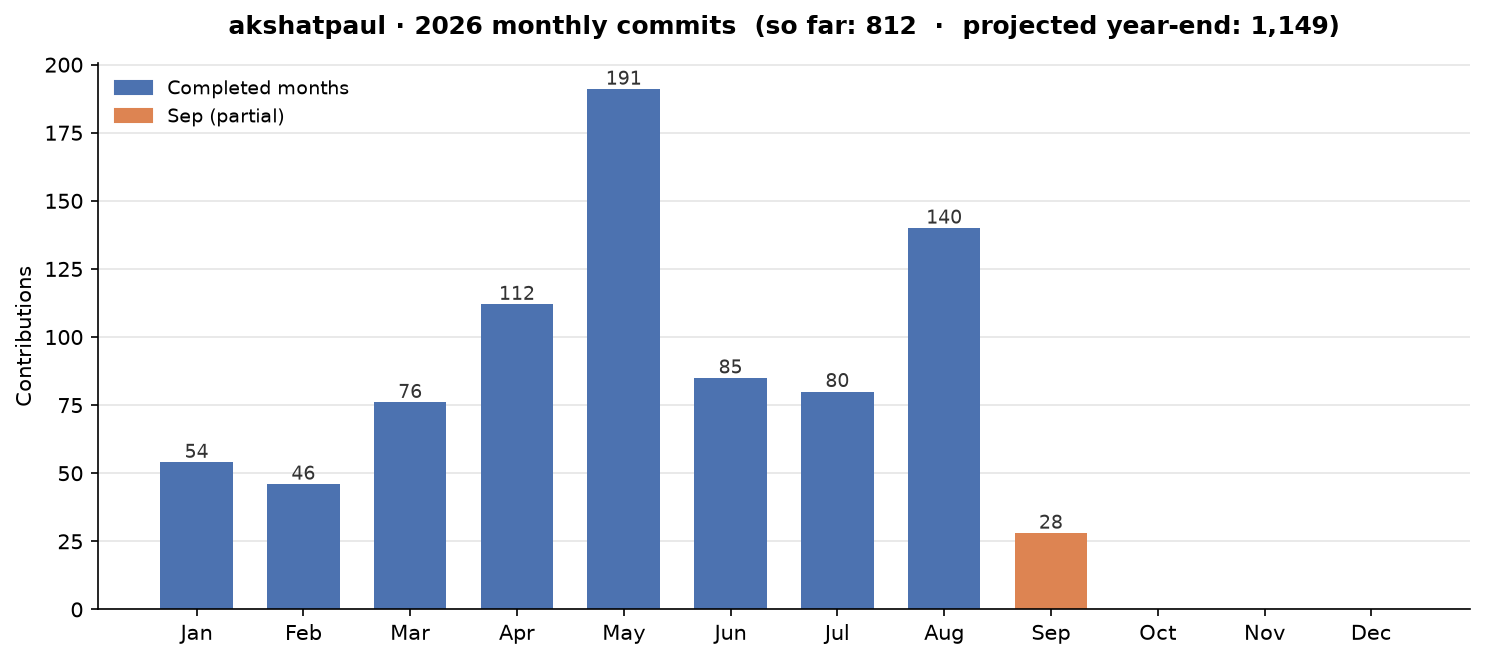
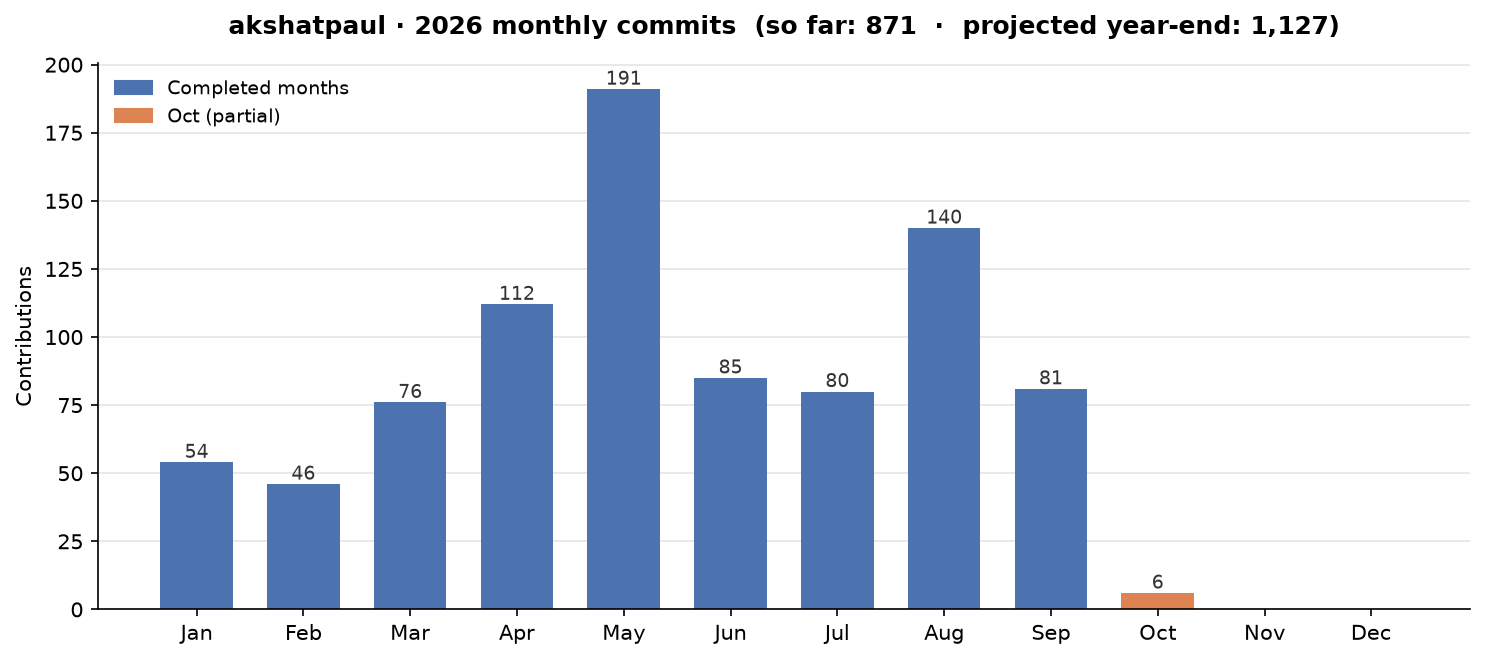
empty commit

diff --git a/README.md b/README.md
@@ -114,11 +114,11 @@
 </p>
 
 <!-- STATS:START -->
-- **Commits so far (2026):** 812 over 258 days
-- **Daily average:** 3.15 commits/day
-- **Projected 2026 year-end total:** 1,149 commits
+- **Commits so far (2026):** 871 over 282 days
+- **Daily average:** 3.09 commits/day
+- **Projected 2026 year-end total:** 1,127 commits
 
-_Last updated: 2026-09-15 12:21 UTC_
+_Last updated: 2026-10-09 11:53 UTC_
 <!-- STATS:END -->
 
 <p align="center">

diff --git a/stats.md b/stats.md
@@ -1,5 +1,5 @@
-- **Commits so far (2026):** 812 over 258 days
-- **Daily average:** 3.15 commits/day
-- **Projected 2026 year-end total:** 1,149 commits
+- **Commits so far (2026):** 871 over 282 days
+- **Daily average:** 3.09 commits/day
+- **Projected 2026 year-end total:** 1,127 commits
 
-_Last updated: 2026-09-15 12:21 UTC_
+_Last updated: 2026-10-09 11:53 UTC_
